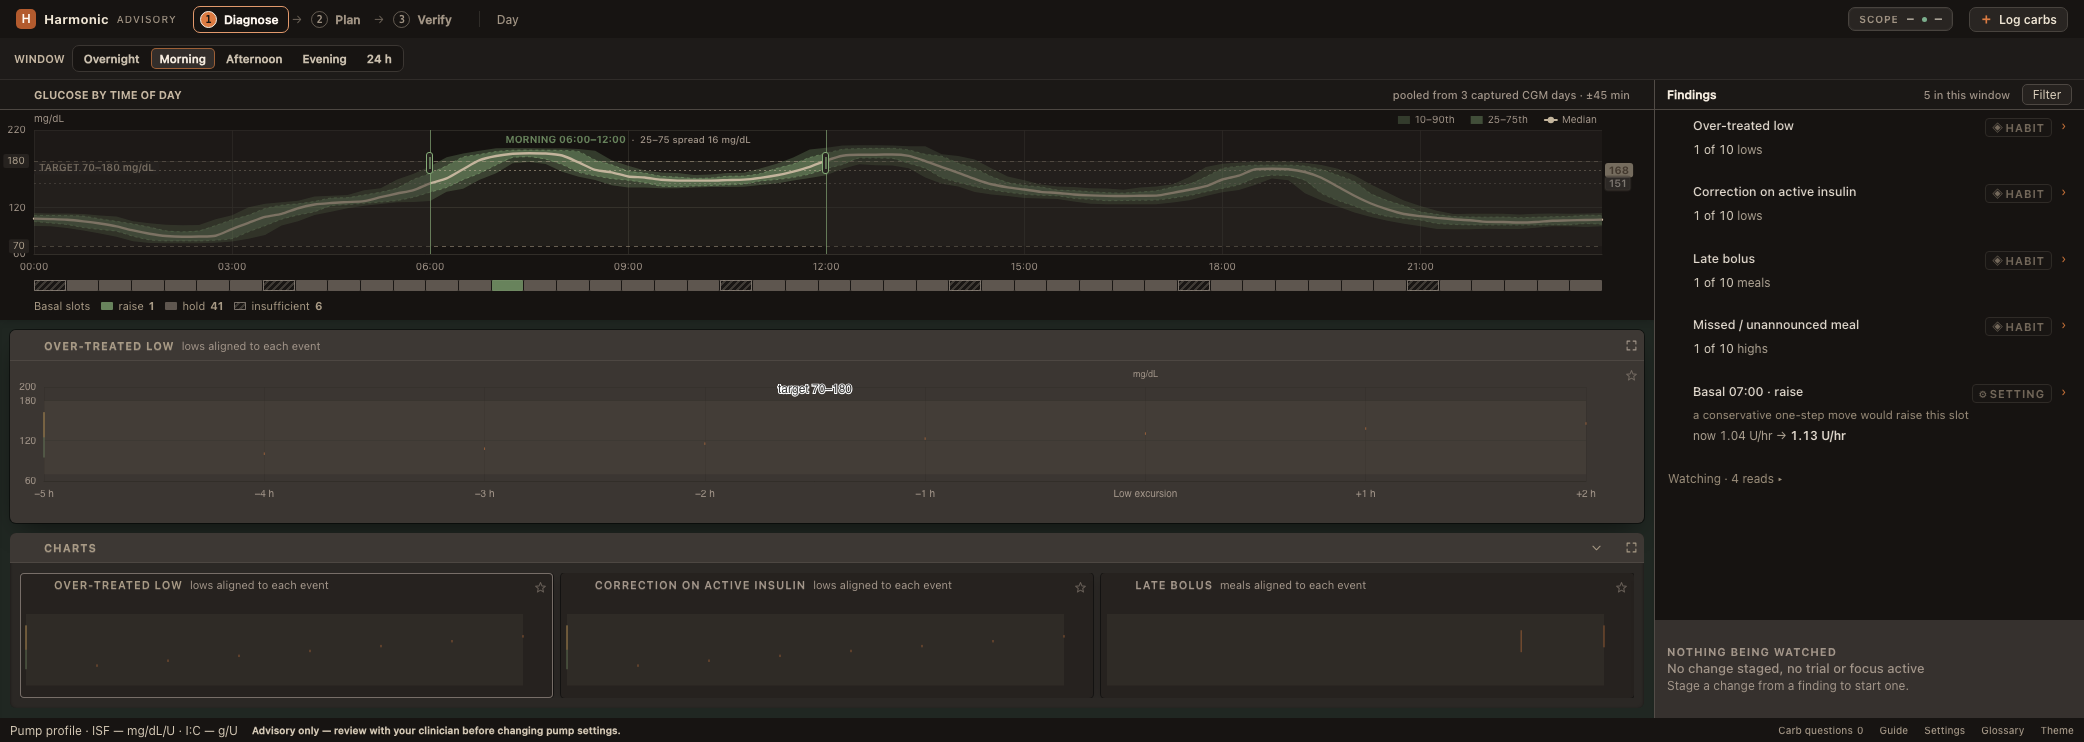
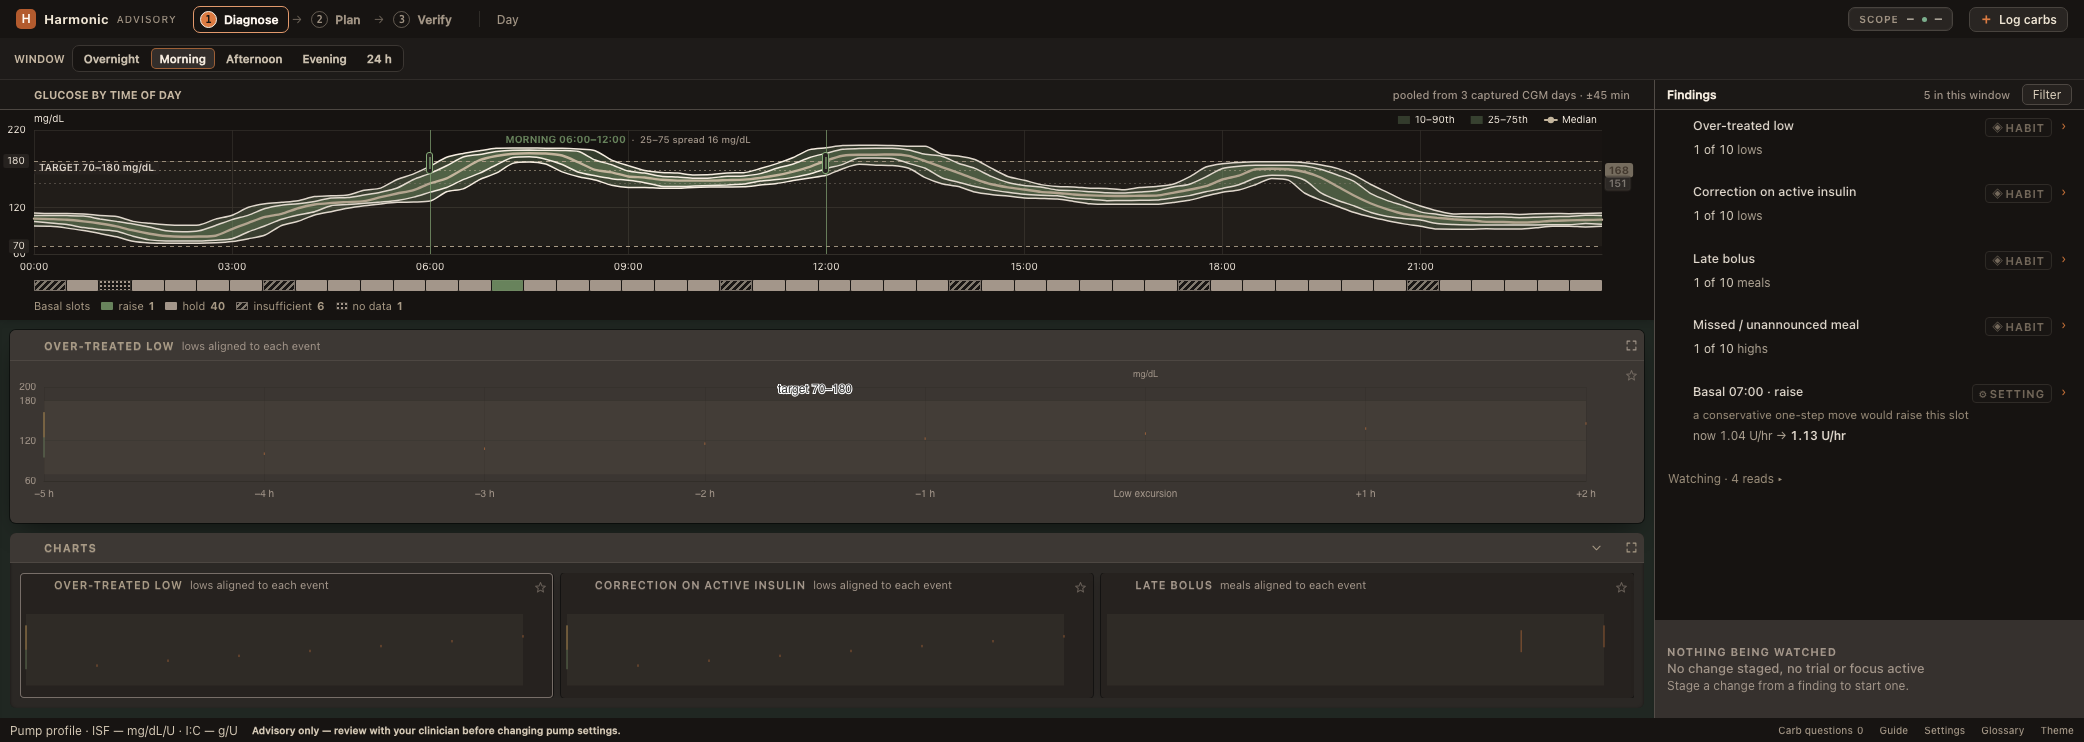
Complete #253 chart legibility evidence

Changed region(s): [[0.0, 0.186, 0.7798, 0.341], [0.0312, 0.372, 0.7798, 0.434], [0.0312, 0.217, 0.0936, 0.248]]

diff --git a/frontend/diagnose-workstation.js b/frontend/diagnose-workstation.js
@@ -304,35 +304,25 @@ const chartColors = (root) => {
      faithful translation is to read each workstation token from .dw, the
      element that declares it, rather than the app document root. */
   const css = (n) => getComputedStyle(root).getPropertyValue(n).trim();
-  /* THEME DEVIATION (#736) — the mix ratios cannot be one number.
-     The 10–90 envelope is ceiling-bound in DARK: at 13% of the measured signal
-     it composites to rgb(36,39,30) on the dark field and measures 1.22:1, and
-     no token can lift it, because the ceiling is the ratio and not the source —
-     even a pure-white source at 13% over that field stops at 1.52:1
-     (the Harmonic theme lock's "owed obligations"). Light does not have that
-     ceiling: a subtractive tint on a light ground reads at a contrast an
-     additive one does not, so its two bands can spend more chroma on the
-     measured shape without competing with the median.
-     So the ratio is theme-specific. It is read off `color-scheme`, which both
-     themes declare, rather than off a class name — this builder samples the
-     live stylesheet for every other value it returns and must not start
-     restating theme facts from memory (R3, and the wrong ink in #644). The
-     25–75 band stays at 38% in dark so 26/38 keeps a clear step (1.59:1 vs
-     2.09:1); light can open the same visual step further. */
+  /* THEME DEVIATION (#736): additive tint on the dark field and subtractive
+     tint on the light field need different envelope mixes. The explicit
+     percentile rails carry the graphical-object boundary; these fills retain
+     the two nested measured regions without competing with those rails or the
+     median. Read the live color-scheme rather than restating a theme class. */
   const dark = getComputedStyle(root).colorScheme === 'dark';
-  const bandOuterMix = dark ? '26%' : '18%';
-  const bandInnerMix = dark ? '38%' : '46%';
-  const bandEdgeMix = dark ? '55%' : '68%';
+  const bandOuterMix = dark ? '26%' : '14%';
+  const bandInnerMix = dark ? '30%' : '34%';
   return {
     ...c,
     surface2: c['surface-2'],
     rail: css('--ck-rail'),      // the panel ground under the plot
+    axisText: c.secondary || c.text,
 
     grid: `color-mix(in srgb, ${c.line} 80%, transparent)`,
     gridStrong: c.line,
     bandOuter: `color-mix(in srgb, ${c.primary} ${bandOuterMix}, transparent)`,
     bandInner: `color-mix(in srgb, ${c.primary} ${bandInnerMix}, transparent)`,
-    bandEdge: `color-mix(in srgb, ${c.primary} ${bandEdgeMix}, transparent)`,
+    bandEdge: c.text,
     median: c['primary-600'] || c.primary,
     /* The ink for text sitting ON the median fill — the axis-riding value tag
        (term 25). It was read as `colors.onAccent` and never defined anywhere:
@@ -343,30 +333,24 @@ const chartColors = (root) => {
     meal: css('--ck-meal'),
     mealEdge: c.surface,
     targetFill: `color-mix(in srgb, ${c.ok} 8%, transparent)`,
-    targetEdge: `color-mix(in srgb, ${c.ok} 55%, transparent)`,
-    targetText: `color-mix(in srgb, ${c.ok} 85%, ${c.text})`,
+    targetEdge: c.ok,
+    targetText: c.text,
     /* Slice 4 — the drawn window is the BRIGHT region; the remainder of the
        band takes this ground-colour scrim (the panel ground at part strength),
        so the data outside the gates washes toward the panel rather than being
        tinted a second hue. Theme-aware through the rail token itself. */
-    /* Theme-split like the band mixes above, and for the same subtractive/
-       additive reason: in dark a 60% wash of the near-black rail visibly pulls
-       the bands under; in light the same 60% of a near-white rail over
-       already-pale bands moved them a few RGB points and the remainder read
-       undimmed (operator, on the built strip). Light spends more scrim. */
     /* A PLAIN rgba(), NEVER color-mix(): ECharts' markArea fill goes through
        zrender's own color parser, which silently drops a color-mix() string —
        the scrim was in the option and painted nothing, proven live by swapping
        in an rgba() and watching the same markArea appear. The band fills only
        get away with color-mix because their path hands the string straight to
-       canvas. The rail token is a hex, so the mix is done here in numbers.
-       Theme-split like the band mixes above: light spends more scrim because a
-       near-white wash over already-pale bands is subtractively weak. */
+       canvas. The rail token is a hex, so the mix is done here in numbers. Its
+       restrained alpha preserves the 3:1 mark boundaries after compositing. */
     windowDim: (() => {
       const hex = css('--ck-rail').replace('#', '');
       const wide = hex.length === 3 ? [...hex].map((h) => h + h).join('') : hex;
       const [r, g, b] = [0, 2, 4].map((i) => parseInt(wide.slice(i, i + 2), 16));
-      return `rgba(${r},${g},${b},${dark ? 0.45 : 0.62})`;
+      return `rgba(${r},${g},${b},0.10)`;
     })(),
     windowEdge: `color-mix(in srgb, ${c.primary} 72%, transparent)`,
   };

diff --git a/frontend/diagnose-workstation-chart.js b/frontend/diagnose-workstation-chart.js
@@ -549,7 +549,7 @@ function bandPair(name, base, span, stack, color, z) {
 const edgeLine = (name, data, color, z) => ({
   name, type: 'line', z, data: data.map(gap), symbol: 'none', silent: true,
   smooth: 0.25, animation: false,
-  lineStyle: { color, width: 1, type: [3, 3], opacity: 0.9 },
+  lineStyle: { color, width: 1.5, type: 'solid', opacity: 1 },
 });
 
 const DISPLAY_AXIS = Array.from({ length: BIN_COUNT * 3 }, (_, index) =>
@@ -616,6 +616,7 @@ function displaySeries(series) {
  */
 export function renderCanvas(el, echarts, opts) {
   const { envelope, colors } = opts;
+  const axisText = colors.axisText || colors.muted;
   const range = opts.range;
   if (!Array.isArray(range) || range.length !== 2
       || !range.every(Number.isFinite) || range[0] >= range[1]) {
@@ -791,7 +792,7 @@ export function renderCanvas(el, echarts, opts) {
     legend: {
       show: true, top: 0, right: GRID.right, itemWidth: 12, itemHeight: 8, itemGap: 16,
       selectedMode: false, silent: true,
-      textStyle: { color: colors.muted, fontSize: 10 },
+      textStyle: { color: axisText, fontSize: 10 },
       data: [
         { name: '10–90th', icon: 'rect', itemStyle: { color: recede(colors.bandOuter, 45), borderWidth: 0 } },
         { name: '25–75th', icon: 'rect', itemStyle: { color: recede(colors.bandInner, 45), borderWidth: 0 } },
@@ -826,7 +827,7 @@ export function renderCanvas(el, echarts, opts) {
           lineStyle: { color: colors.grid },
         },
         axisLabel: {
-          color: colors.muted, fontSize: 10, margin: 8,
+          color: axisText, fontSize: 10, margin: 8,
           interval: hourInterval, formatter: axisFormatter, rich: axisRich,
         },
       },
@@ -835,11 +836,11 @@ export function renderCanvas(el, echarts, opts) {
       {
         type: 'value', min: range[0], max: range[1], interval: 60,
         axisLine: { show: false }, axisTick: { show: false },
-        axisLabel: { color: colors.muted, fontSize: 10, formatter: '{value}' },
+        axisLabel: { color: axisText, fontSize: 10, formatter: '{value}' },
         splitLine: { lineStyle: { color: colors.grid } },
         /* the caption sits ON the column's spine (the plot's left edge), so it
            stops being a fourth competing left edge in the top 60px */
-        name: 'mg/dL', nameTextStyle: { color: colors.muted, fontSize: 10, align: 'left' },
+        name: 'mg/dL', nameTextStyle: { color: axisText, fontSize: 10, align: 'left' },
         nameGap: 6, nameLocation: 'end',
       },
     ],
@@ -935,9 +936,13 @@ export function renderCanvas(el, echarts, opts) {
       },
       ...bandPair('10–90th', envelope.p10, outer, 'outer', recede(colors.bandOuter, 45), 2),
       ...bandPair('25–75th', envelope.p25, inner, 'inner', recede(colors.bandInner, 45), 4),
-      // hairline edges so the two bands read as two bands, not one gradient
+      // Hairline edges make all four percentile boundaries survive the window
+      // scrim as measured objects, rather than asking two translucent fills to
+      // imply the outer pair.
+      edgeLine('__p10', envelope.p10, recede(colors.bandEdge, 40), 6),
       edgeLine('__p25', envelope.p25, recede(colors.bandEdge, 40), 6),
       edgeLine('__p75', envelope.p75, recede(colors.bandEdge, 40), 6),
+      edgeLine('__p90', envelope.p90, recede(colors.bandEdge, 40), 6),
       {
         name: 'Median', type: 'line', z: 8, data: envelope.p50.map(gap),
         symbol: 'none', smooth: 0.25, animation: false,

diff --git a/frontend/diagnose-workstation.css b/frontend/diagnose-workstation.css
@@ -90,7 +90,7 @@
   --ck-manual: #866619;          /* user-claim token, from frontend/index.html */
   --ck-manual-soft: #F6EFDC;
   --ck-up: var(--mk-ok);
-  --ck-hold: var(--mk-muted);
+  --ck-hold: var(--mk-surface);
   --ck-insuff: var(--mk-warn);
   --ck-pad: 12px;
   --ck-gap: 10px;
@@ -134,6 +134,7 @@
   --ck-focus-mark: var(--ck-accent);
   --ck-held-mark: var(--mk-text);
 }
+html.dark .dw { --ck-hold: var(--mk-muted); }
 html.dark .dw {
   --ck-focus-mark: var(--mk-text);
   --ck-held-mark: var(--ck-accent);
@@ -1309,21 +1310,21 @@ html:not(.dark) .dw { --ck-well: var(--wk-surface-sunken); }
 .lane-cell[data-verdict="up"] { --cell: color-mix(in srgb, var(--ck-up) 72%, transparent); }
 .lane-cell[data-verdict="down"] { --cell: color-mix(in srgb, var(--mk-danger) 72%, transparent); }
 .lane-cell[data-verdict="hold"] {
-  --cell: color-mix(in srgb, var(--ck-hold) 45%, var(--mk-surface));
+  --cell: var(--ck-hold);
   /* A quiet solid field says the programmed rate remains in force. */
 }
 /* The passive verdicts must not collapse into the same neutral outline. Their
    dash rhythms survive monochrome viewing and are carried by the key swatches. */
 .lane-cell[data-verdict="insufficient"] {
   --cell: transparent;
-  box-shadow: inset 0 0 0 1px color-mix(in srgb, var(--ck-insuff) 88%, transparent);
+  box-shadow: inset 0 0 0 1px color-mix(in srgb, var(--ck-insuff) 88%, var(--mk-surface));
   background-image: repeating-linear-gradient(135deg, transparent 0 3px,
-    color-mix(in srgb, var(--ck-insuff) 32%, transparent) 3px 5px);
+    color-mix(in srgb, var(--ck-insuff) 88%, var(--mk-surface)) 3px 5px);
 }
 .lane-cell[data-verdict="nodata"] {
   --cell: transparent;
   box-shadow: inset 0 0 0 1px color-mix(in srgb, var(--ck-hair) 100%, transparent);
-  background-image: radial-gradient(circle, color-mix(in srgb, var(--ck-hair) 72%, transparent) 1px,
+  background-image: radial-gradient(circle, var(--ck-hold) 1px,
     transparent 1.25px);
   background-size: 4px 4px;
 }
@@ -1360,10 +1361,10 @@ html:not(.dark) .dw { --ck-well: var(--wk-surface-sunken); }
 }
 .lane-key .lane-cell[data-verdict="insufficient"] {
   --lane-structure: repeating-linear-gradient(135deg, transparent 0 3px,
-    color-mix(in srgb, var(--ck-insuff) 32%, transparent) 3px 5px);
+    color-mix(in srgb, var(--ck-insuff) 88%, var(--mk-surface)) 3px 5px);
 }
 .lane-key .lane-cell[data-verdict="nodata"] {
-  --lane-structure: radial-gradient(circle, color-mix(in srgb, var(--ck-hair) 72%, transparent) 1px,
+  --lane-structure: radial-gradient(circle, var(--ck-hold) 1px,
     transparent 1.25px);
   background-size: 4px 4px;
 }

diff --git a/frontend/diagnose-workstation-chart.test.js b/frontend/diagnose-workstation-chart.test.js
@@ -260,6 +260,13 @@ test('slice 4 · the outside-the-gates scrim is the exact complement of the wind
   assert.deepEqual(dims(), [['00:00', '06:00'], ['12:00', '23:45']]);
   const dim = option.series.find((series) => series.name === '__dim');
   assert.equal(dim.type, 'custom');
+  assert.deepEqual(['__p10', '__p25', '__p75', '__p90'].map((name) => {
+    const edge = option.series.find((series) => series.name === name);
+    return [edge.name, edge.lineStyle.color, edge.lineStyle.width, edge.lineStyle.type];
+  }), [
+    ['__p10', '#bbb', 1.5, 'solid'], ['__p25', '#bbb', 1.5, 'solid'],
+    ['__p75', '#bbb', 1.5, 'solid'], ['__p90', '#bbb', 1.5, 'solid'],
+  ], 'all four percentile boundaries use the one measured band-edge role');
   const rect = dim.renderItem(
     { coordSys: { x: 10, y: 20, width: 100, height: 50 } },
     { value: (i) => ['00:00', '06:00'][i], coord: ([v]) => [v === '00:00' ? 10 : 35, 0] });
